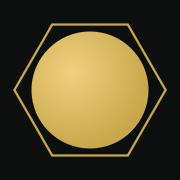
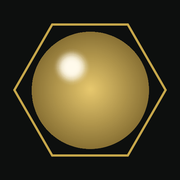
Icone : l'hexagone actuel avec la bille d'origine, et une variante masquable
Deux dessins coexistaient sur le telephone d'Olivier : Chrome avait garde la
toute premiere icone (bille en relief et reflet, hexagone fin pointe en
haut, juillet), Samsung Internet affichait celle de la v1.53 (hexagone dore
a faces planes en haut et en bas, trait epais -- mais bille remplacee par
un disque plat).

Nouvelle icone, assemblee a partir des MESURES des deux images, pas
redessinee : l'hexagone actuel tel quel (trait de 7 px, couleur 200/168/75)
et la bille d'origine, degrade et reflet compris, mise a la taille exacte
du disque actuel (334 px). Toutes les tailles viennent de ce seul dessin :
icones d'application, icone iOS, favicons.

Variante masquable a part (icon-maskable-512.png) : Android decoupe les
icones en cercle ou squircle, et les sommets de l'hexagone sortaient de la
zone sure (cercle de 40 %). La variante est reduite de 10 % : dessin au
plus a 196 px du centre, pour 204,8 permis. Un test verifie que chaque
icone declaree existe et que la masquable a son propre fichier.

Changed region(s): [[0.1667, 0.1667, 0.8333, 0.8333]]

diff --git a/tests/engine.test.js b/tests/engine.test.js
@@ -991,3 +991,18 @@ test('le site DECLARE son theme sombre (sinon les navigateurs a mode sombre forc
   assert.match(src, /:root \{ color-scheme: dark; \}/);
   assert.doesNotMatch(src, /data-theme="light"|prefers-color-scheme:\s*light/, 'si un theme clair apparait un jour, la declaration devra devenir "dark light"');
 });
+
+/* ─── 25. Icones de l'application ─── */
+
+test("icones : chaque fichier declare par le manifeste et la page existe ; l'icone masquable a son propre fichier", () => {
+  const fs = require('fs'), path = require('path'), racine = path.join(__dirname, '..');
+  const m = JSON.parse(fs.readFileSync(path.join(racine, 'manifest.json'), 'utf8'));
+  for (const i of m.icons) assert.ok(fs.existsSync(path.join(racine, i.src)), 'manquant : ' + i.src);
+  // Une icone "maskable" doit tenir dans la zone sure (cercle de 40 %) : les
+  // sommets de l'hexagone de l'icone normale en sortent, d'ou un fichier a part.
+  const mask = m.icons.find(i => /maskable/.test(i.purpose));
+  assert.ok(mask && !m.icons.some(i => i !== mask && i.src === mask.src), 'icone masquable distincte');
+  const src = fs.readFileSync(path.join(racine, 'index.html'), 'utf8');
+  for (const f of ['favicon-32.png', 'favicon-16.png', 'favicon.ico', 'apple-touch-icon.png'])
+    assert.ok(src.includes('href="' + f + '"') && fs.existsSync(path.join(racine, f)), f);
+});
